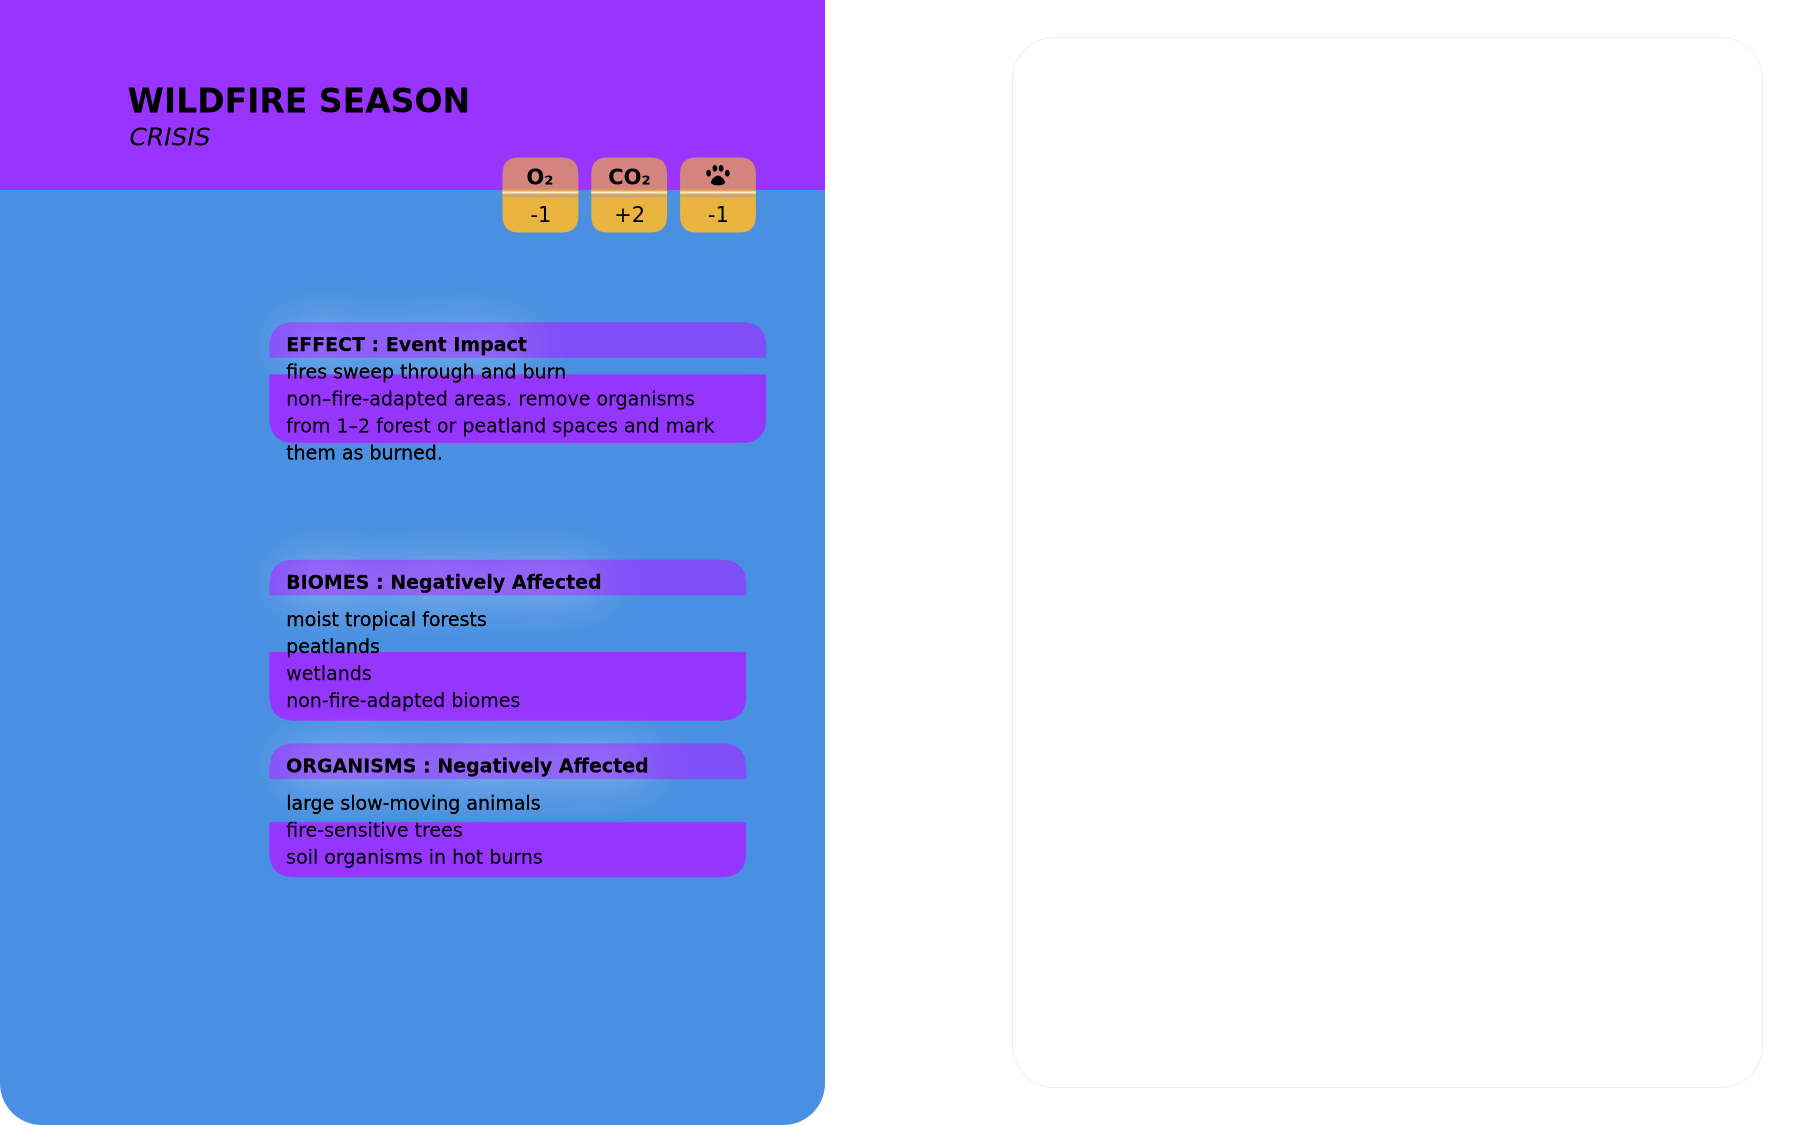
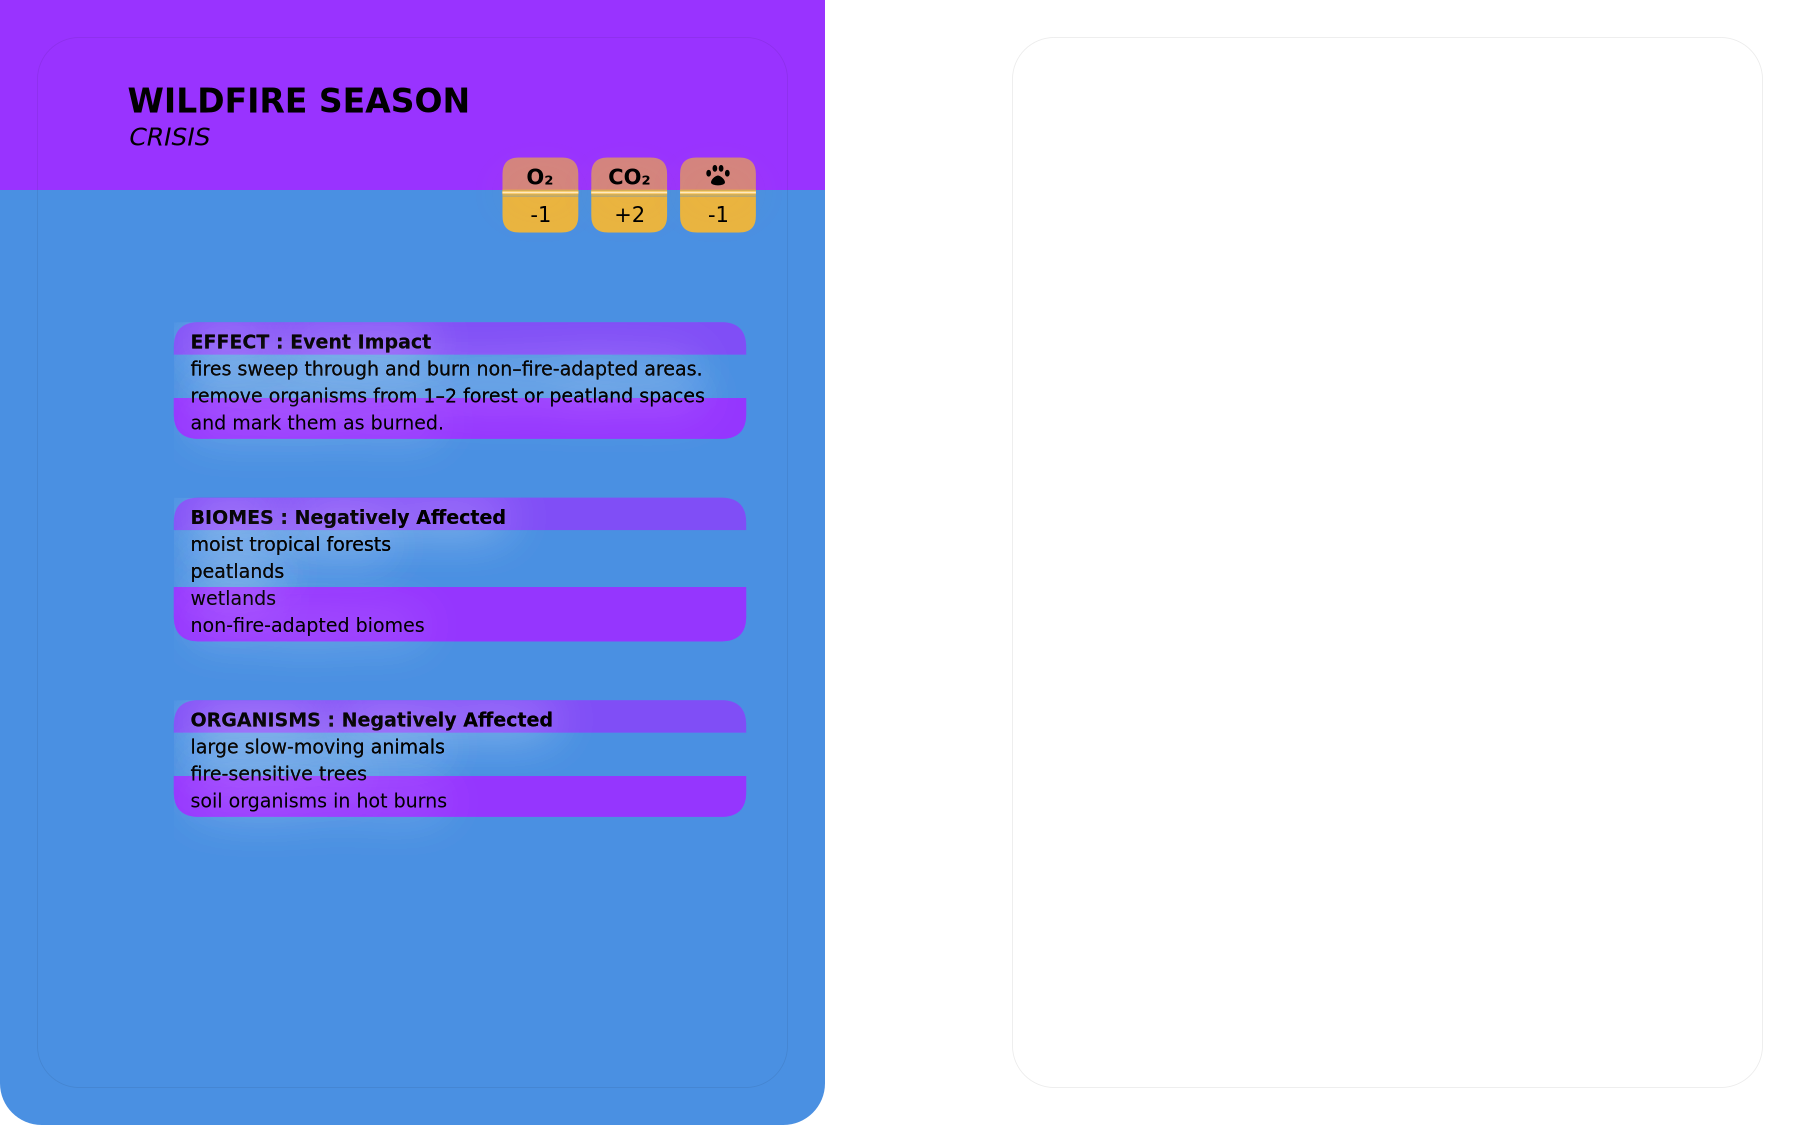
feat: Refactor event card drawing logic to unify field rendering and deprecate unused functions

Changed region(s): [[0.0933, 0.4356, 0.4356, 0.7778], [0.0933, 0.28, 0.4356, 0.4044]]

diff --git a/game/lib/event-cards/draw-field-row.js b/game/lib/event-cards/draw-field-row.js
@@ -1,12 +1,11 @@
 /**
  * Draw a single event card field row with split backgrounds
- * Specific implementation for event cards (separate from organism cards)
+ * Uses the same logic as organism cards for consistent appearance
  */
 
-const drawTopFieldBackground = require('./draw-top-field-background');
-const drawBottomFieldBackground = require('./draw-bottom-field-background');
+const wrapText = require('./wrap-text');
 
-module.exports = function drawFieldRow(ctx, { textX, rowY, scale, color, titleColor, label, main, sub, maxWidth, hexToRgba, drawTop, drawBottom, extraWidth = 0, extraBottomOffset = 0 }) {
+module.exports = function drawFieldRow(ctx, { textX, rowY, scale, color, titleColor, label, main, sub, maxWidth, hexToRgba, drawTop, drawBottom }) {
   ctx.save();
   ctx.textAlign = 'left';
   ctx.textBaseline = 'top';
@@ -17,47 +16,83 @@ module.exports = function drawFieldRow(ctx, { textX, rowY, scale, color, titleCo
   const boxPadX   = 4 * scale;
   const boxPadY   = 2 * scale;
   const boxRadius = 6 * scale;
+  const lineGap   = Math.round(2 * scale);
+  const subY      = rowY + fieldSize + lineGap;
 
-  // Draw TOP background and text
-  const topResult = drawTopFieldBackground(ctx, {
-    textX,
-    rowY,
-    scale,
-    color,
-    titleColor,
-    label,
-    main,
-    maxWidth,
-    extraWidth,
-    boxRadius,
-    boxPadX,
-    boxPadY,
-    fieldSize,
-    hexToRgba,
-    drawTop
-  });
+  // Normalize label (ALL CAPS) and sub (lowercase, preserve Ma/Ga)
+  const displayLabel = label.toUpperCase();
+  const displaySub = sub ? sub.toLowerCase().replace(/\bma\b/g, 'Ma').replace(/\bga\b/g, 'Ga') : null;
 
-  // Draw BOTTOM background and text
-  drawBottomFieldBackground(ctx, {
-    textX,
-    rowY,
-    scale,
-    color,
-    titleColor,
-    label,
-    sub,
-    topBoxH: topResult.topBoxH,
-    topBgTop: topResult.topBgTop,
-    boxW: topResult.boxW,
-    boxRadius: topResult.boxRadius,
-    boxPadX,
-    boxPadY,
-    subSize,
-    maxWidth,
-    hexToRgba,
-    drawBottom,
-    extraBottomOffset
-  });
+  // Measure widths for background box
+  ctx.font = `bold ${fieldSize}px "DejaVu Sans", sans-serif`;
+  const labelPart = `${displayLabel} : `;
+  const labelPartW = ctx.measureText(labelPart).width;
+  ctx.font = `bold ${fieldSize}px "DejaVu Sans", sans-serif`;
+  const mainW = ctx.measureText(main).width;
+  let subW = 0;
+  let wrappedSubLines = [];
+  if (displaySub) {
+    ctx.font = `${subSize}px "DejaVu Sans", sans-serif`;
+    // If maxWidth is set, wrap the text to calculate actual line count
+    if (maxWidth) {
+      wrappedSubLines = wrapText(ctx, displaySub, maxWidth, subSize);
+      subW = maxWidth;
+    } else {
+      subW = ctx.measureText(displaySub).width;
+      wrappedSubLines = [displaySub]; // Single line if no wrapping needed
+    }
+  }
+  const line1W = labelPartW + mainW;
+  const contentW = maxWidth ? Math.min(Math.max(line1W, subW), maxWidth) : Math.max(line1W, subW);
+  
+  // Top background: label line plus ~2px below
+  const topBoxH = fieldSize + (7 * scale) + 2 * boxPadY;
+  
+  // Bottom background: starts 2px above first wrapped line, ends 2px below last line
+  const bottomBoxH = displaySub ? ((wrappedSubLines.length - 1) * (subSize + lineGap) + subSize + (4 * scale)) : 0;
+  
+  const boxW = contentW + 2 * boxPadX;
 
+  // Background (isolated save/restore)
+  ctx.save();
+  drawTop(ctx, textX - boxPadX, rowY - boxPadY, boxW, topBoxH, boxRadius, color, hexToRgba, 0.45);
   ctx.restore();
+
+  // Draw bottom background if there's sub text
+  if (bottomBoxH > 0) {
+    ctx.save();
+    const bottomY = subY - (2 * scale);
+    drawBottom(ctx, textX - boxPadX, bottomY, boxW, bottomBoxH, boxRadius, color, hexToRgba, 0.8);
+    ctx.restore();
+  }
+
+  // Clip text to within both background boxes so it never overflows
+  ctx.beginPath();
+  ctx.rect(textX - boxPadX, rowY - boxPadY, boxW, topBoxH + bottomBoxH + (2 * scale));
+  ctx.clip();
+
+  // Line 1: "Bold Label: " then bold "Main Value"
+  ctx.shadowColor = '#FFFFFF';
+  ctx.shadowBlur = 10 * scale;
+  ctx.font = `bold ${fieldSize}px "DejaVu Sans", sans-serif`;
+  ctx.fillText(labelPart, textX, rowY);
+  ctx.fillText(main, textX + labelPartW, rowY);
+
+  // Lines 2+: wrapped sub description, smaller
+  if (wrappedSubLines.length > 0) {
+    ctx.font = `${subSize}px "DejaVu Sans", sans-serif`;
+    wrappedSubLines.forEach((line, i) => {
+      ctx.fillText(line, textX, subY + (i * (subSize + lineGap)));
+    });
+  }
+
+  ctx.shadowColor = 'transparent';
+  ctx.shadowBlur = 0;
+  ctx.restore();
+
+  // Return total field height (top + bottom + spacing)
+  const totalFieldHeight = topBoxH + bottomBoxH;
+  return {
+    height: totalFieldHeight
+  };
 };

diff --git a/game/lib/event-cards/functional-category-event.js b/game/lib/event-cards/functional-category-event.js
@@ -1,7 +1,6 @@
 /**
  * Draw event card field sections
- * Renders the 3 event fields (EFFECT, BIOMES, ORGANISMS) with proper spacing
- * Separate implementation for event cards (does not affect organism cards)
+ * Uses the same logic as organism cards for consistent appearance
  */
 
 const drawFieldRow = require('./draw-field-row');
@@ -19,25 +18,18 @@ module.exports = function drawEventFields(ctx, contentX, contentY, contentW, con
   const fields = card._eventFields || [];
   if (!fields.length) return;
 
-  const badgeRadius   = 0.18 * 72 * scale;
-  const badgeTextGap  = 10 * scale;
-  const leftPadding   = Math.round(21 * scale);
-  const fieldGap      = Math.round(10 * scale);
-  
+  const textX = contentX + Math.round(21 * scale);
+  const fieldGap = Math.round(5 * scale); // 5px gap between fields
   const color = card.neonColor;  // Event-type color
-  const textX = contentX + leftPadding + badgeRadius + badgeTextGap;
-  const maxTextWidth = contentW - leftPadding - badgeRadius - badgeTextGap - Math.round(8 * scale);
+  const maxTextWidth = contentW - Math.round(21 * scale) - Math.round(8 * scale);
 
   const { drawTop, drawBottom } = getEventBackgroundFunctions();
 
   // Draw all fields with consistent spacing
   let currentY = contentY + Math.round(50 * scale);
 
-  fields.forEach((field, index) => {
-    // Add extra offset for EFFECT field (first field) - move UP by making it more negative
-    const extraBottomOffset = index === 0 ? -40 : 0;
-    
-    drawFieldRow(ctx, {
+  fields.forEach((field) => {
+    const fieldResult = drawFieldRow(ctx, {
       textX,
       rowY: currentY,
       scale,
@@ -47,31 +39,10 @@ module.exports = function drawEventFields(ctx, contentX, contentY, contentW, con
       hexToRgba,
       drawTop,
       drawBottom,
-      extraWidth: field.label === 'Effect' ? 20 : 0,
-      extraBottomOffset,
       ...field,
     });
 
-    // Calculate total field height (fixed top + variable bottom)
-    const fieldSize = Math.round(4.5 * scale);
-    const subSize   = Math.round(4.5 * scale);
-    const boxPadY   = 2 * scale;
-    const lineGap   = Math.round(2 * scale);
-    
-    // Fixed top background height (tall enough for label + main subtitle)
-    const topBoxH = (fieldSize * 2) + (boxPadY * 3) + Math.round(2 * scale);
-    
-    // Calculate bottom background height based on description wrapping
-    let bottomBoxH = boxPadY * 2;
-    if (field.sub) {
-      // Estimate wrapped lines
-      const estimatedLines = Math.ceil((field.sub.length || 0) / 40);
-      bottomBoxH = (estimatedLines * (subSize + lineGap)) + (boxPadY * 2);
-    }
-    
-    const totalFieldHeight = topBoxH + bottomBoxH;
-    
-    // Add consistent gap between fields
-    currentY += totalFieldHeight + fieldGap;
+    // Move to next field position: current field height + gap
+    currentY += fieldResult.height + fieldGap;
   });
 };

diff --git a/game/lib/event-cards/draw-bottom-field-background.js b/game/lib/event-cards/draw-bottom-field-background.js
@@ -1,78 +1,8 @@
 /**
- * Draw the bottom background of an event card field
- * Specific implementation for event cards
+ * DEPRECATED: This file is no longer used.
+ * Event card fields now use the same draw-field-row.js logic as organism cards.
  */
 
-const wrapText = require('./wrap-text');
-const drawDescriptionText = require('./draw-description-text');
-
-module.exports = function drawBottomFieldBackground(ctx, {
-  textX,
-  rowY,
-  scale,
-  color,
-  titleColor,
-  label,
-  sub,
-  topBoxH,
-  topBgTop,
-  boxW,
-  boxRadius,
-  boxPadX,
-  boxPadY,
-  subSize,
-  maxWidth = 200,
-  hexToRgba,
-  drawBottom,
-  extraBottomOffset = 0
-}) {
-  const lineGap = Math.round(2 * scale);
-  
-  // Normalize description text
-  const displaySub = sub ? sub.toLowerCase().replace(/\bma\b/g, 'Ma').replace(/\bga\b/g, 'Ga') : null;
-  
-  // Gap between top and bottom backgrounds - move bottom background up to completely overlap
-  const gapBetweenBackgrounds = -55; // Negative value moves bottom up to overlap (40px more)
-  
-  // Apply extra field-specific offset (e.g., EFFECT field gets moved up 30px more)
-  const totalBottomOffset = gapBetweenBackgrounds + extraBottomOffset;
-  
-  // Wrap text and calculate bottom background height (taller to hold all text)
-  let wrappedLines = [];
-  let bottomBoxH = boxPadY * 2 + 20; // Add 20px extra height
-  
-  if (displaySub) {
-    const wrapMaxWidth = maxWidth || 200;
-    ctx.font = `${subSize}px "DejaVu Sans", sans-serif`;
-    wrappedLines = wrapText(ctx, displaySub, wrapMaxWidth, subSize);
-    bottomBoxH = (wrappedLines.length * (subSize + lineGap)) + (boxPadY * 2) + 20; // 20px extra height
-  }
-
-  // Draw BOTTOM background (variable height, dark/opaque, with consistent gap and field-specific offset)
-  const bottomBgTop = topBgTop + topBoxH + totalBottomOffset;
-  
-  ctx.save();
-  drawBottom(ctx, textX - boxPadX, bottomBgTop, boxW, bottomBoxH, boxRadius, color, hexToRgba, 0.8);
-  ctx.restore();
-
-  // Draw description text in BOTTOM background (with easy positioning control)
-  drawDescriptionText(ctx, {
-    textX,
-    wrappedLines,
-    bottomBgTop,
-    bottomBoxH,
-    subSize,
-    lineGap,
-    titleColor,
-    label,
-    textOffsetY: 10  // Move text down 10px
-  });
-
-  ctx.shadowColor = 'transparent';
-  ctx.shadowBlur = 0;
-  
-  // Return dimensions for caller
-  return {
-    bottomBoxH
-  };
+module.exports = function drawBottomFieldBackground() {
+  // This function is no longer called
 };

diff --git a/game/lib/event-cards/draw-description-text.js b/game/lib/event-cards/draw-description-text.js
@@ -23,14 +23,8 @@ module.exports = function drawDescriptionText(ctx, {
   ctx.font = `${subSize}px "DejaVu Sans", sans-serif`;
   ctx.fillStyle = titleColor || '#000000';
   
-  // Apply extra offset for EFFECT field description text only
-  const fieldSpecificOffset = label === 'Effect' ? 30 : 0;
-  const totalTextOffset = textOffsetY + fieldSpecificOffset;
-  
-  // Center description vertically in bottom background with optional offset
-  const totalDescHeight = wrappedLines.length * (subSize + lineGap) - lineGap;
-  const bottomBgCenter = bottomBgTop + (bottomBoxH / 2);
-  const descStartY = bottomBgCenter - (totalDescHeight / 2) + totalTextOffset;
+  // Position text at fixed offset from bottom background top (not centered)
+  const descStartY = bottomBgTop + textOffsetY;
   
   wrappedLines.forEach((line, i) => {
     ctx.fillText(line, textX, descStartY + (i * (subSize + lineGap)));

diff --git a/game/lib/event-cards/layout-event-card.js b/game/lib/event-cards/layout-event-card.js
@@ -250,7 +250,7 @@ async function writeFrontBackEventCardPNG(outputPath, event, options = {}) {
 
   // Draw back first so front-side clipping/state cannot hide the back panel
   await drawEventCardBack(ctx, backXPt, yPt, scale, event);
-  await drawEventCardPNG(ctx, frontXPt, yPt, event, scale, { includeGuides: false });
+  await drawEventCardPNG(ctx, frontXPt, yPt, event, scale, { includeGuides: true });
 
   await writeCanvasPNG(canvas, outputPath, dpi);
 }
